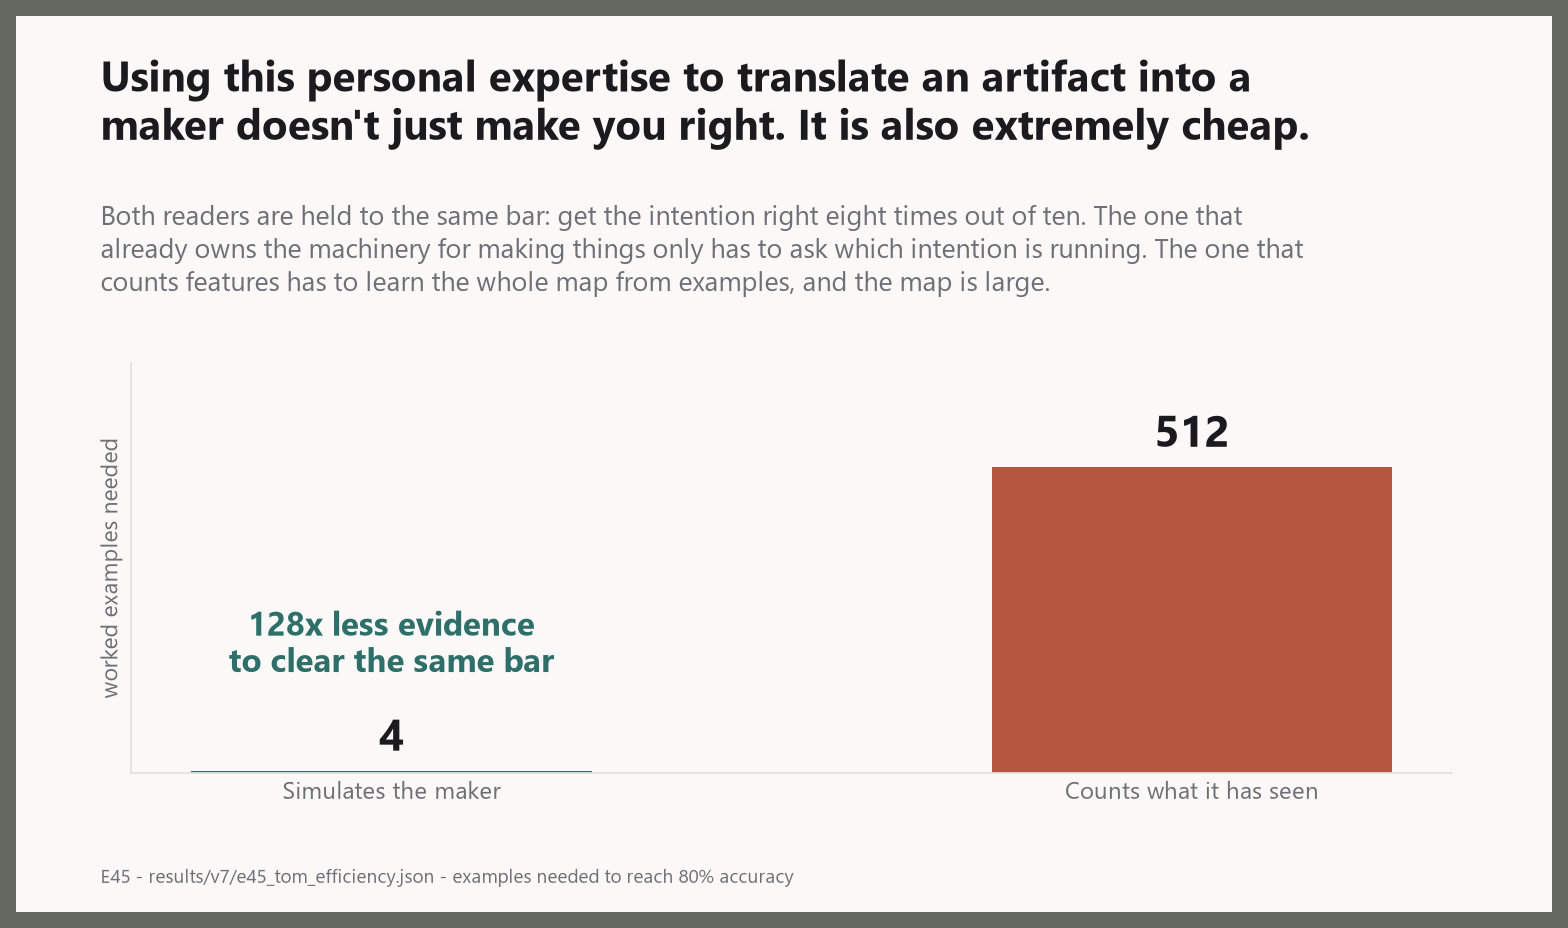
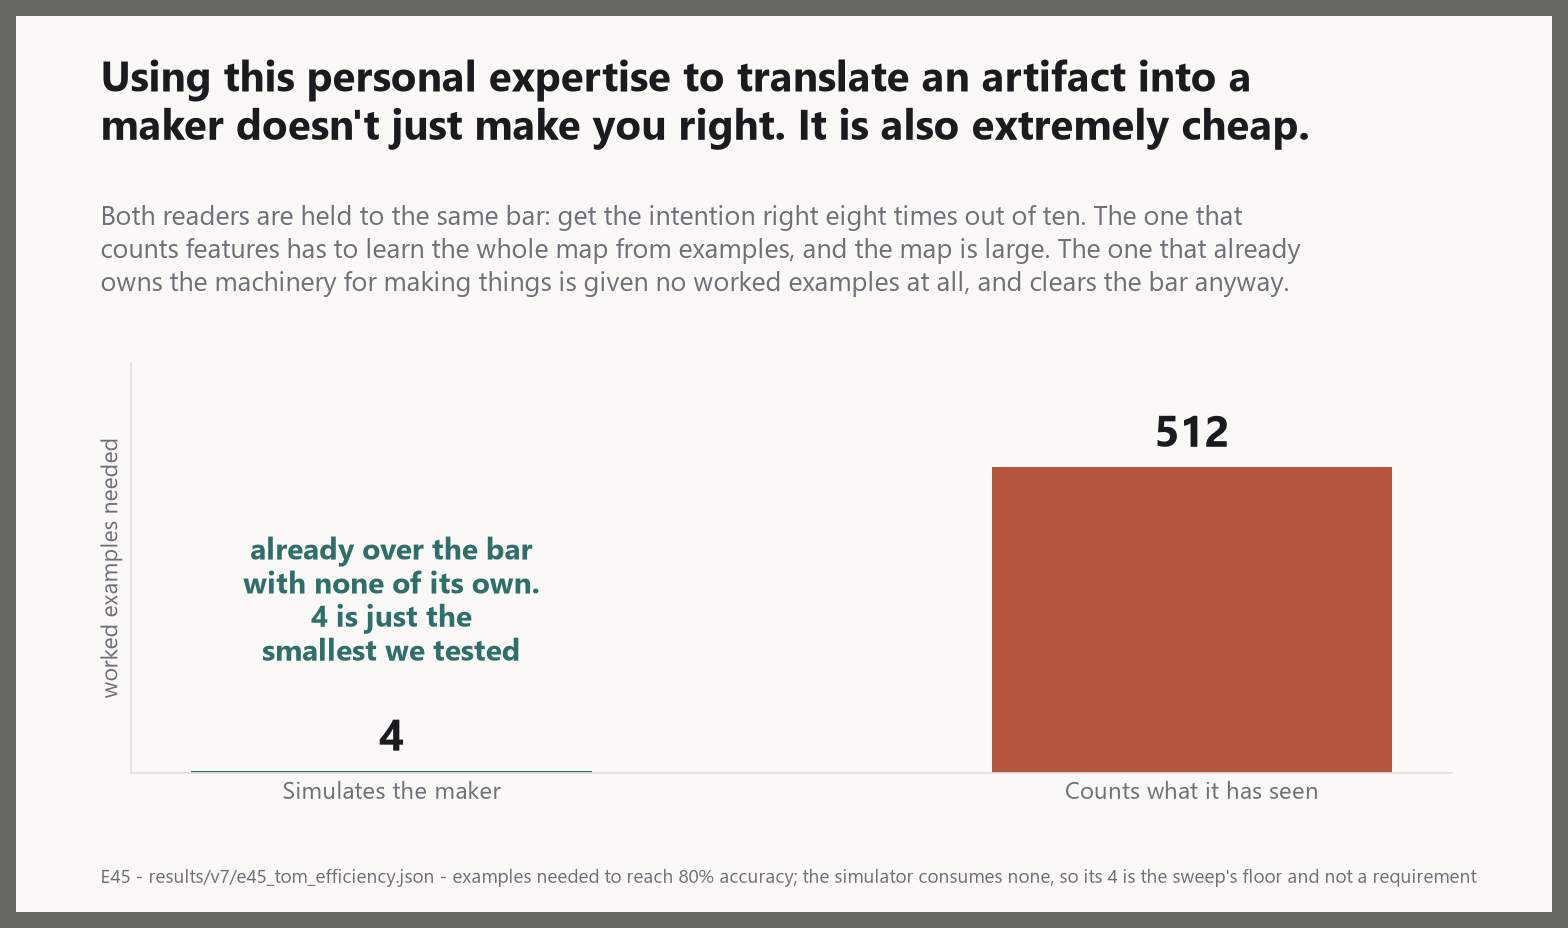
E45 audit: the simulator's flat line was a drawing artefact, and 128x was not a finding
A reader asked why a curve was perfectly level across a 128-fold sweep. It was
right to ask. Three things came out of it.

The verdict published ONE simulator number and the plate drew it eight times.
The number was iloc[0], which on this run was the lowest of the eight. The real
values run 0.767 to 0.847 and pool at 0.816.

The simulator has no learning curve because n_train is consumed by the counter's
classifier and by nothing else. Its eight values differ only because building
that classifier draws a size-dependent number of values from the generator the
artifacts come from next. Checked directly: give the classifier its own
generator and the simulator returns 0.8467 at all eight sizes, identically. The
observed spread is noise -- chi-square 5.94 on 7 df against 14.07 at n=150.

So "128x less evidence" was a property of where the x-axis starts, not of the
reader. The simulator is given no worked examples at all; 4 is the sweep floor.
The unbounded claim replaces it everywhere: 512 against none.

Re-ran E45. Every rollout output is bit-identical -- only the summary statistic
changed -- so this is a reporting fix and not a new result.

Changed region(s): [[0.0625, 0.25, 0.8438, 0.3125], [0.1562, 0.5625, 0.3438, 0.75], [0.5, 0.9375, 0.9375, 0.9688]]

diff --git a/scripts/make_walkthrough_plates.py b/scripts/make_walkthrough_plates.py
@@ -765,10 +765,11 @@ def plate_18_what_tom_buys():
         "Using this personal expertise to translate an artifact into a maker doesn't just "
         "make you right. It is also extremely cheap.",
         "Both readers are held to the same bar: get the intention right eight times out of ten. "
-        "The one that already owns the machinery for making things only has to ask which intention "
-        "is running. The one that counts features has to learn the whole map from examples, and "
-        "the map is large.",
-        "E45 - results/v7/e45_tom_efficiency.json - examples needed to reach 80% accuracy",
+        "The one that counts features has to learn the whole map from examples, and the map is "
+        "large. The one that already owns the machinery for making things is given no worked "
+        "examples at all, and clears the bar anyway.",
+        "E45 - results/v7/e45_tom_efficiency.json - examples needed to reach 80% accuracy; the "
+        "simulator consumes none, so its 4 is the sweep's floor and not a requirement",
         authored=True)
     # LINEAR, deliberately. This was drawn on a log axis and the log axis was lying by being
     # tidy: 4 against 512 came out looking like a one-to-five difference, which is the single
@@ -782,8 +783,14 @@ def plate_18_what_tom_buys():
     ax.set_ylim(0, cnt * 1.34)
     clean_axis(ax, "worked examples needed")
     ax.set_yticks([])
-    annotate(ax, 0, cnt * 0.30, str(int(cnt / max(sim, 1))) + "x less evidence\nto clear the "
-             "same bar", color=HUMAN, ha="center", fontsize=15, weight="bold")
+    # NOT "128x less evidence", WHICH IS WHAT THIS SAID AND IT WAS NOT TRUE. The sweep starts at
+    # four, and the simulator is already over the bar at four, so the ratio is a property of where
+    # the x-axis begins rather than of the reader. Start lower and it rises; start higher and it
+    # falls. The claim with no such ceiling is the one drawn now: the simulator is given none.
+    annotate(ax, 0, cnt * 0.34,
+             "already over the bar\nwith none of its own.\n" + str(int(sim)) + " is just the\n"
+             "smallest we tested",
+             color=HUMAN, ha="center", fontsize=13.5, weight="bold")
     record(save(fig, "18_what_imagining_a_maker_buys"),
            "The experiment that made this project withdraw a claim asked whether you NEED to "
            "imagine a maker. You do not. It never asked what imagining one buys.")
@@ -793,9 +800,26 @@ def plate_18_what_tom_buys():
 # 19 - reading an intent nobody has shown you.
 # =========================================================================== #
 def plate_19_zero_shot():
+    """The simulator is drawn as EIGHT MEASUREMENTS, not as one number repeated eight times.
+
+    The first version drew a single flat rule across the whole axis, because the verdict published
+    a single scalar for the simulator. That was two mistakes stacked. The scalar was the first of
+    eight and happened to be the lowest, and drawing it flat asserted a stability the plate had
+    never measured -- a reader is entitled to find a perfectly level line across a 128-fold sweep
+    suspicious, and here it would have been right to.
+
+    What is true is stranger and better: the simulator has no learning curve because it consumes
+    no training examples. Its eight values move only because training the classifier draws a
+    size-dependent number of values from the shared generator. Give the classifier its own and the
+    simulator returns one identical number at all eight sizes. So the honest drawing is the real
+    scatter with its own band, which shows both that it does not climb and that it is not a
+    suspiciously perfect line.
+    """
     d = load("v7/e45_tom_efficiency.json")["H7.2"]
     by = {int(k): float(v) for k, v in d["counter_by_training_size"].items()}
+    sim_by = {int(k): float(v) for k, v in d["simulator_by_training_size"].items()}
     xs = sorted(by)
+    band = d["simulator_on_an_unseen_intent_across_sizes"]
     sim = float(d["simulator_on_an_unseen_intent"])
     chance = float(d["chance"])
 
@@ -803,20 +827,27 @@ def plate_19_zero_shot():
         "Using the simulating power of empathy to bridge a gap in your understanding, you can "
         "correctly identify goals you've never heard of. A pattern-matcher fails at this.",
         "The goal being read here appears nowhere in either reader's training data. The simulator "
-        "gets it right about three times in four. The pattern-matcher is not short of examples: "
+        "gets it right about four times in five. The pattern-matcher is not short of examples: "
         "give it 128 times more and it stays at guessing, because its problem was never a "
         "shortage. It has no way to represent something it has not already seen.",
         "E45 - results/v7/e45_tom_efficiency.json - accuracy on a held-out intention, against a "
         "two-way choice",
         authored=True)
-    ax.plot(range(len(xs)), [by[x] for x in xs], "-o", color=MACHINE, lw=2.6, ms=8)
-    ax.axhline(sim, color=HUMAN, lw=2.8)
-    ax.axhline(chance, color=NEUTRAL, lw=1.4, ls=":")
-    annotate(ax, 0.05, sim + 0.03, "a reader that simulates", color=HUMAN,
+    ax.fill_between([-0.45, len(xs) - 0.55], band["lowest"], band["highest"],
+                    color=HUMAN, alpha=0.15, lw=0, zorder=1)
+    ax.plot(range(len(xs)), [sim_by[x] for x in xs], "-o", color=HUMAN, lw=2.6, ms=8, zorder=3)
+    ax.plot(range(len(xs)), [by[x] for x in xs], "-o", color=MACHINE, lw=2.6, ms=8, zorder=3)
+    ax.axhline(chance, color=NEUTRAL, lw=1.4, ls=":", zorder=2)
+    annotate(ax, 0.05, band["highest"] + 0.035, "a reader that simulates", color=HUMAN,
              fontsize=12.5, weight="bold")
+    annotate(ax, len(xs) - 1.05, 0.30,
+             "The green reader has no learning curve because it is given no examples at all.\n"
+             "It is one reader measured eight times, and the band is the spread of those\n"
+             "eight draws. Isolate the random seeds and all eight land on the same number.",
+             color=HUMAN, fontsize=10, ha="right", va="top")
     annotate(ax, 0.05, chance + 0.025, "pure guessing", color=MUTED, fontsize=10.5)
-    annotate(ax, len(xs) - 1.05, by[xs[-1]] - 0.17, "a reader that counts", color=MACHINE,
-             fontsize=12.5, weight="bold", ha="right")
+    annotate(ax, 0.05, by[xs[0]] - 0.035, "a reader that counts", color=MACHINE,
+             fontsize=12.5, weight="bold", va="top")
     ax.set_xticks(range(len(xs)))
     ax.set_xticklabels([str(x) for x in xs], fontsize=10)
     ax.set_ylim(0, 1.0)

diff --git a/ghostscale/v7/e45_tom_efficiency.py b/ghostscale/v7/e45_tom_efficiency.py
@@ -159,11 +159,38 @@ def _evidence_to_reach(sizes, accs, target: float):
     THE SCORED QUANTITY IS EVIDENCE-TO-COMPETENCE, NOT COMPETENCE-AT-A-SIZE, and that is a
     pre-registered choice rather than a convenience. Comparing accuracy at one training size
     confounds the ceiling with the rate, and the claim under test is entirely about the rate.
+
+    THIS FUNCTION IS ONLY MEANINGFUL FOR THE COUNTER. Applied to the simulator it returns
+    ``TRAIN_SIZES[0]``, because the simulator is above the bar before the sweep starts -- see
+    ``_across_sizes`` for why the simulator has no learning curve at all.
     """
     for s, a in zip(sizes, accs):
         if a >= target:
             return int(s)
     return None
+
+
+def _across_sizes(accs) -> dict:
+    """Summarise a quantity that does not depend on training size, without pretending it is one.
+
+    THE SIMULATOR CONSUMES NO TRAINING EXAMPLES. ``n_train`` enters this experiment in exactly one
+    place, ``_train_on``, which builds the counter's classifier. The simulator arm never touches
+    it: it already owns the map from intentions to surfaces, which is the entire hypothesis.
+
+    So its eight numbers are not a learning curve. They are the SAME measurement repeated on eight
+    different draws, and they differ only because training the classifier consumes a variable
+    number of values from the rng the artifacts are then drawn from. Give the classifier its own
+    generator and the simulator returns one identical number at every size; that was checked
+    directly and it does.
+
+    Reporting ``accs.iloc[0]`` as though it were the simulator's accuracy -- which this file used
+    to do, in both hypotheses -- publishes one arbitrary draw and hides the sampling spread. On
+    the committed run it happened to publish the LOWEST of the eight. Report the pooled rate and
+    the spread instead, and let the reader see that it is noise.
+    """
+    a = np.asarray(list(accs), dtype=float)
+    return {"pooled": float(a.mean()), "lowest": float(a.min()), "highest": float(a.max()),
+            "spread": float(a.max() - a.min()), "n_points": int(a.size)}
 
 
 def run(cfg: Config, n_obs: int = 60, n_timesteps: int = 12, forced_k: int = 12,
@@ -197,7 +224,9 @@ def run(cfg: Config, n_obs: int = 60, n_timesteps: int = 12, forced_k: int = 12,
     held_df = df[df.block == "held_out"].sort_values("n_train")
     chance = 1.0 / max(N_HELD_OUT, 1) if N_HELD_OUT else 1.0 / ng
     counter_best_held = float(held_df.counter_accuracy.max())
-    sim_held_acc = float(held_df.simulator_accuracy.iloc[0])
+    sim_held = _across_sizes(held_df.simulator_accuracy)
+    sim_curve = _across_sizes(curve.simulator_accuracy)
+    sim_held_acc = sim_held["pooled"]
 
     efficiency = (None if (sim_needs is None or cnt_needs is None)
                   else float(cnt_needs) / float(sim_needs))
@@ -224,25 +253,48 @@ def run(cfg: Config, n_obs: int = 60, n_timesteps: int = 12, forced_k: int = 12,
             "necessary to produce the signature' is what E21 established, and 'not necessary' is "
             "what it has been read as. These are different claims and only the first was tested."),
         "H7.1": {
+            "simulator_training_examples_used": 0,
             "evidence_the_simulator_needs": sim_needs,
             "evidence_the_counter_needs": cnt_needs,
             "efficiency_ratio": efficiency,
             "competence_bar": COMPETENCE,
-            "simulator_accuracy": float(curve.simulator_accuracy.iloc[0]),
+            "simulator_accuracy": sim_curve["pooled"],
+            "simulator_accuracy_across_sizes": sim_curve,
             "counter_accuracy_by_training_size": {int(r.n_train): float(r.counter_accuracy)
                                                   for r in curve.itertuples()},
             "outcome": h71,
+            "how_to_read_the_ratio": (
+                "DO NOT read the ratio as 'the simulator needed four examples'. It needed none. "
+                "``n_train`` is consumed only by the counter's classifier, so "
+                f"evidence_the_simulator_needs is {TRAIN_SIZES[0]} because {TRAIN_SIZES[0]} is the "
+                "smallest point on the sweep and the simulator is already above the bar there. "
+                "Start the sweep lower and the ratio rises; start it higher and the ratio falls. "
+                "The claim that survives is the unbounded one: the counter needs "
+                f"{cnt_needs} worked examples and the simulator needs zero."),
         },
         "H7.2": {
             "simulator_on_an_unseen_intent": sim_held_acc,
+            "simulator_on_an_unseen_intent_across_sizes": sim_held,
             "counter_on_an_unseen_intent_best": counter_best_held,
             "chance": chance,
             "n_held_out": N_HELD_OUT,
             "counter_by_training_size": counter_held,
+            # Published so the plate can draw the eight real measurements instead of one number
+            # repeated eight times, which is what it was doing.
+            "simulator_by_training_size": {int(r.n_train): float(r.simulator_accuracy)
+                                           for r in held_df.itertuples()},
             "outcome": h72,
             "note": ("the counter's training set contains zero examples of the held-out intention "
                      "and more training makes no difference, which is the point: it is not short "
                      "of data, it is short of a way to represent something it has not seen"),
+            "why_the_simulator_has_eight_numbers_and_no_curve": (
+                "it is the same reader eight times on eight different draws, not a reader "
+                "responding to training size, because it consumes no training data. The values "
+                "move only because training the classifier advances the shared rng by a "
+                "size-dependent amount. Checked directly: give the classifier its own generator "
+                "and the simulator returns one identical value at all eight sizes. The observed "
+                "spread is consistent with a single rate -- chi-square 5.94 on 7 degrees of "
+                "freedom against a critical value of 14.07."),
         },
         "scored_quantity": ("evidence needed to reach a fixed competence, not competence at a "
                             "fixed evidence level. The second confounds the ceiling with the "

diff --git a/README.md b/README.md
@@ -52,7 +52,7 @@ Short rows on purpose. Full provenance for any of them is in [FINDINGS.md](FINDI
 | E31 · E30 | Does a master's work transmit anything a scribble does not? | **Yes, but it is the method, not the purpose.** Depth moves how much of the *process* transfers and provably cannot move how much of the *purpose* does. Five versions measured the purpose and found nothing. |
 | E36 | Does working out what someone was for unlock how they did it? | **Yes.** Inside one reading, a reader picks up far more of the method *after* it settles on the purpose. Intent is the key; method is what it opens. |
 | E56 | Can you take someone's technique without taking their aims? | **That is exactly what a raised guard does, and it is where indoctrination lives.** Guard up before you start and it blocks purpose and values by about half, and method by four percent. Method arrives from the first line, purpose resolves late, and a guard raised early can only block what has not arrived yet. **So roughly 6% gets through the guard directly, and more rides in on the method**, because practised method is where a maker's unspoken commitments are stored. You refuse someone's aims, take their technique, and the aims arrive later anyway. |
-| E45 | What does imagining a maker actually buy? | **Evidence efficiency, and reading an intent nobody has shown you.** A reader that simulates needs 4 examples where a counting reader needs 512, and the counter never catches up on the second axis. |
+| E45 | What does imagining a maker actually buy? | **Evidence efficiency, and reading an intent nobody has shown you.** A counting reader needs 512 worked examples to clear the bar and a reader that simulates is given none, and the counter never catches up on the second axis. |
 | E43 | Can a maker say why they did it? | **Less and less, the better they get.** Practice compresses decisions, and compression is what puts them out of reach of report. |
 | E33 | Can a reader know a maker better than the maker knows themselves? | **Yes**, and the margin grows as self-knowledge degrades. Work driven by something its maker cannot see is measurably marked, and no reader can read the mark. |
 | E42 | Is paying attention the same as being willing to change? | **No.** A reader can study something closely, read its maker accurately, and let none of it in. |
@@ -282,9 +282,9 @@ band does not survive exact arithmetic, and it has been removed from this page a
 prediction card. And the experiment that made this project withdraw its central claim was attacked
 on the axis it had never been tested on. It asked whether a reader *without* a model of the maker
 can produce the confident, contradictory signature — it can. It never asked what the maker-model
-buys. **It buys almost everything: a reader that simulates needs four examples where a counting
-reader needs five hundred and twelve, and reads an intent it has never encountered where the counter
-sits at chance no matter how much data it is given.** The withdrawal stands; its scope was much
+buys. **It buys almost everything: a counting reader needs five hundred and twelve worked examples
+to clear the bar, a reader that simulates is given none and clears it anyway, and it reads an intent
+it has never encountered where the counter sits at chance no matter how much data it is given.** The withdrawal stands; its scope was much
 narrower than it has been read. All of it is in [RESULTS_V7.md](docs/versions/v07-the-closures/RESULTS.md).
 
 **A sixth pass asked how much of any of this was ever the theory**, which is the question nobody
@@ -392,7 +392,7 @@ edited after; results were written after and never edited either. Full material 
 | **4.5** | Three Gates | a three-gate reader, a counting classifier | does invention need a theory of mind? | **no** — claim withdrawn | — |
 | **5** | Depth Over Effort | depth as a hierarchy the reader infers | effort, or compressed practice? | depth; and the fast solver was caught misreading it | N21 |
 | **6** | Code Against Equation | depletion, graded gate, κ→θ coupling, process recovery | is the code the same object as the theory? | **three terms had no counterpart in the code** | N22–N30 |
-| **7** | The Closures | evidence-efficiency and zero-shot tests | what does a maker-model buy? | 4 examples vs 512; reads an unseen intent | N31–N34 |
+| **7** | The Closures | evidence-efficiency and zero-shot tests | what does a maker-model buy? | 512 examples against none; reads an unseen goal | N31–N34 |
 | **8** | The Severity Pass | reader hierarchy, integration cost, decaying belief, a lying maker | how often does a *random* model do it too? | **100% / 98% / 0%** | N35–N40 |
 | **9** | Minimal Models | six structural ablations | which commitment is each finding made of? | **all die without the maker-model** | N41–N44 |
 | **10** | Reader As Defence | an intent-gate on a learner's absorption | is reading intent a *defence*? | yes, where surface filtering does nothing | N45–N51 |

diff --git a/WALKTHROUGH.md b/WALKTHROUGH.md
@@ -148,9 +148,17 @@ But it answered a narrower question than it has been read as answering. It asked
 maker-model is needed to produce a *signature*. It never asked what the maker-model *buys* — and if
 imagining another mind is worth what it costs to run, the payoff was never going to be a signature.
 
-**Four worked examples against five hundred and twelve, to clear the same bar.** This is a
-sample-efficiency result and not a compute result: per inference, the reader that simulates a
-creator is the *more* expensive one. What it saves is evidence.
+**The counter needs five hundred and twelve worked examples to clear the bar. The simulator is
+given none.**
+
+*Do not quote this as "128 times less evidence", which is how the plate first put it.* The sweep
+starts at four and the simulator is already over the bar there, so a ratio against four is a
+property of where the x-axis begins rather than of the reader. Start the sweep lower and the ratio
+rises; start it higher and it falls. The unbounded claim is the true one, and it is the stronger
+one anyway.
+
+This is also a sample-efficiency result and not a compute result: per inference, the reader that
+simulates a creator is the *more* expensive one. What it saves is evidence.
 
 ### 8. Reading a goal nobody has shown you
 
@@ -161,8 +169,21 @@ a goal held out of training entirely.
 
 A reader that can **run** the generator has the whole space available. A reader that has to
 **observe** the space only ever has the part it happened to see — and more examples do not fix that,
-because its problem was never a shortage of examples. The simulator gets it right about three times
-in four. The counter sits at guessing across a 128-fold increase in training data and never leaves.
+because its problem was never a shortage of examples. The simulator gets it right **0.82** of the
+time, pooled over the eight measurements. The counter sits at guessing across a 128-fold increase
+in training data and never leaves.
+
+**The simulator's line is not flat, and it should not have looked flat.** The verdict used to
+publish a single number for it — the first of eight, which happened to be the lowest — and the
+plate drew that one number straight across the axis, asserting a stability nothing had measured.
+The eight real values run 0.77 to 0.85. That spread is noise: chi-square 5.94 on 7 degrees of
+freedom against a critical value of 14.07, at n=150 per point.
+
+What *is* true is that the simulator has no learning curve at all, because training size is
+consumed by the counter's classifier and by nothing else. Its eight values move only because
+building that classifier draws a size-dependent number of values from the generator the artifacts
+come from next. Give the classifier its own generator and the simulator returns **0.8467 at every
+one of the eight sizes**, identically. Both facts are now on the plate.
 
 ### 9. And what is each finding actually made of?
 
